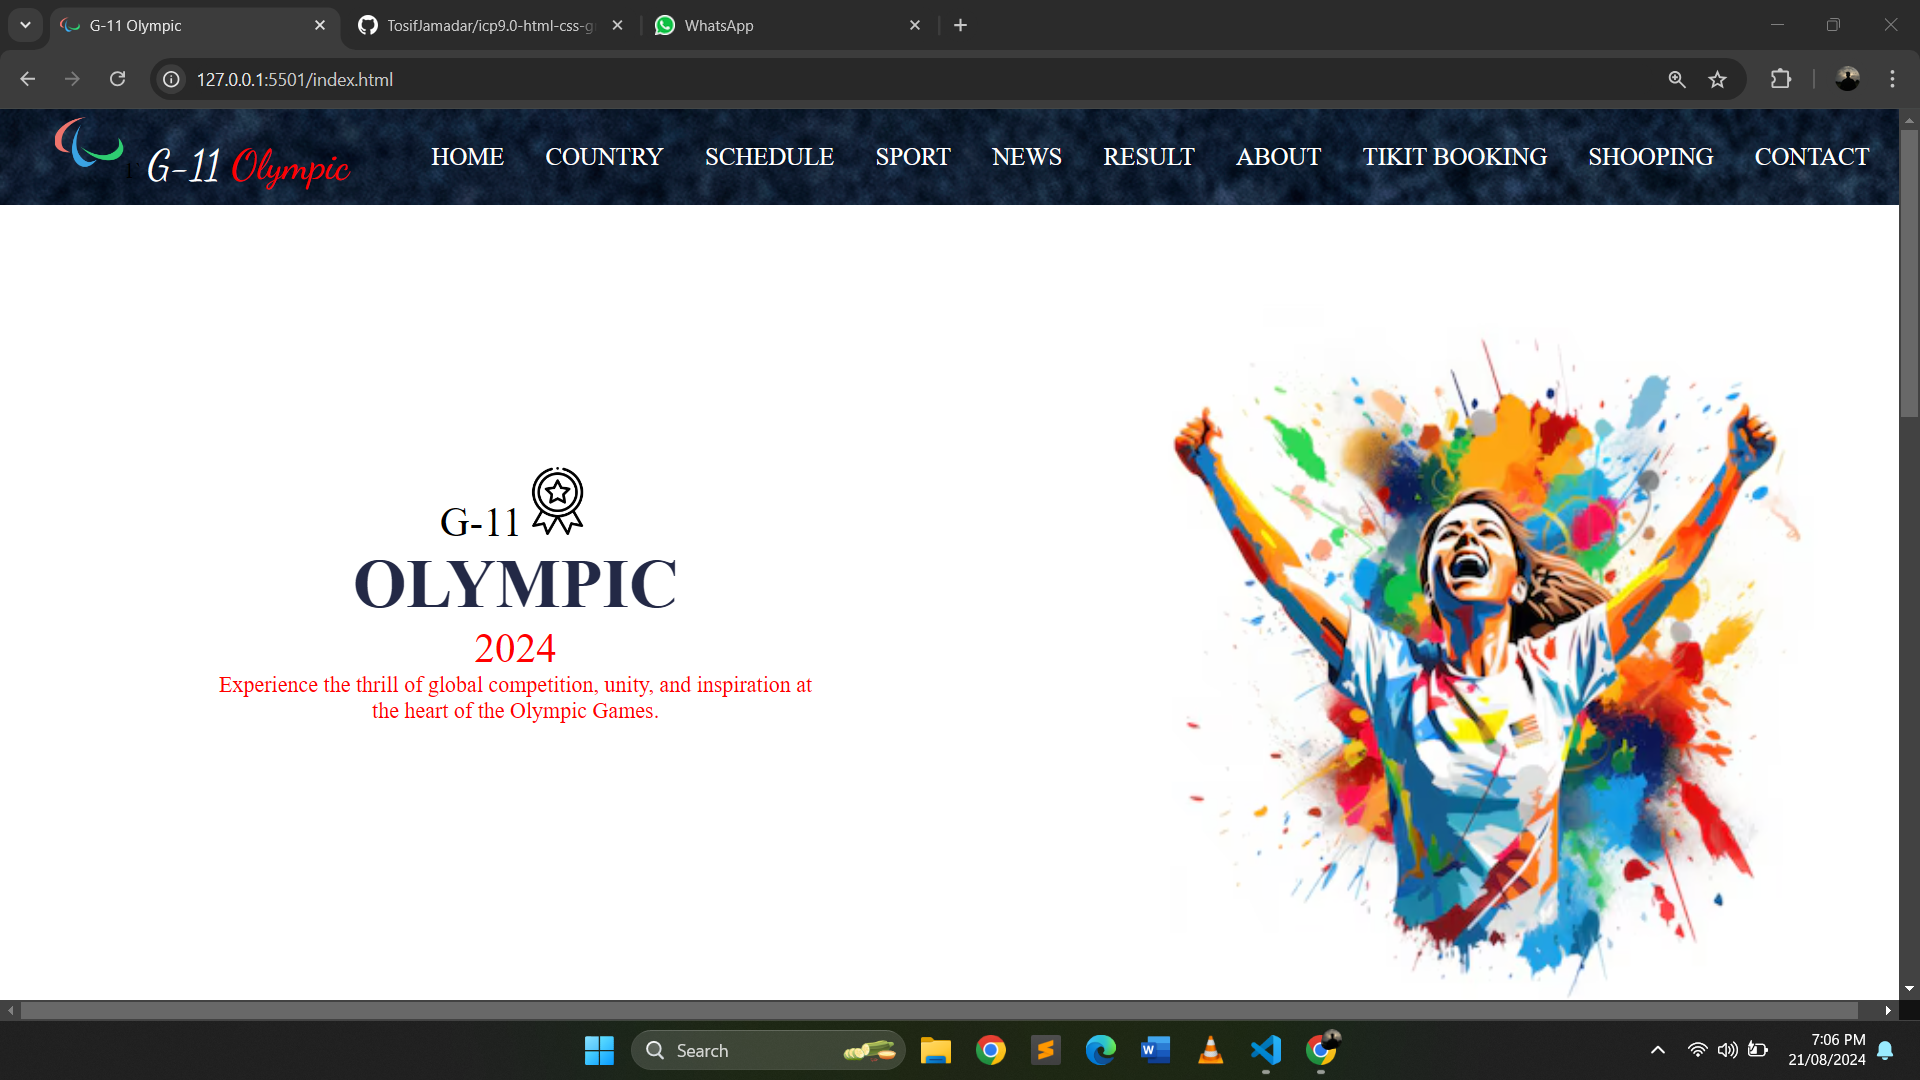
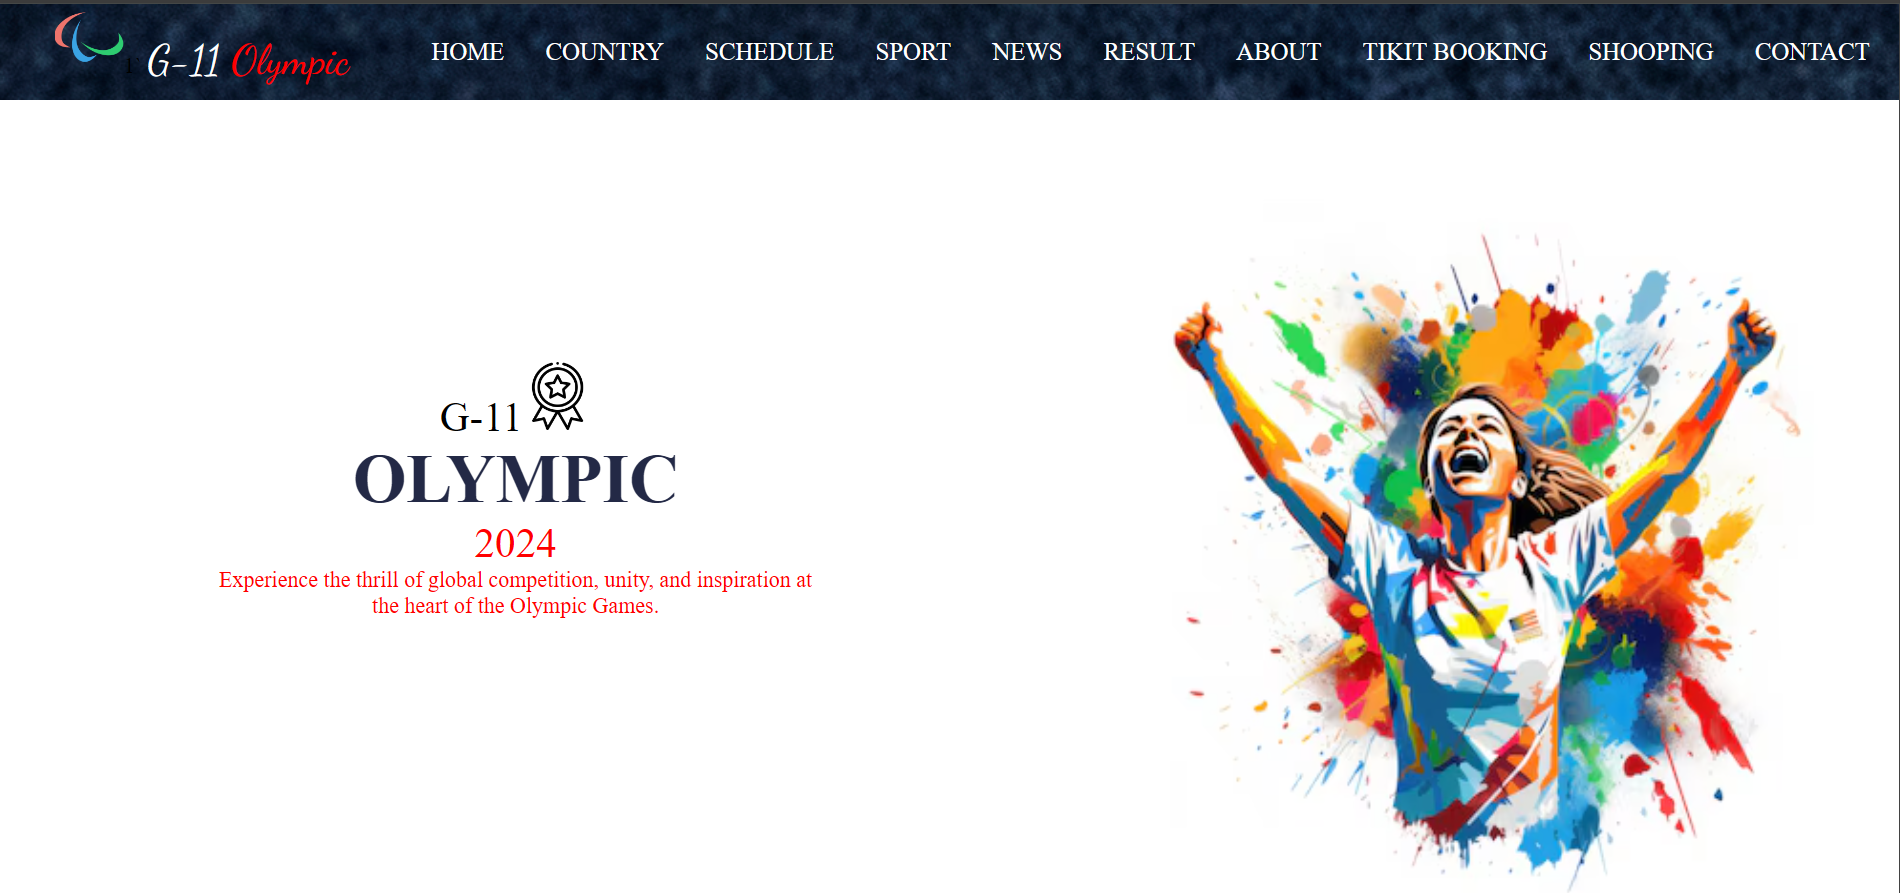
ScreenShot Added

diff --git a/README.MD b/README.MD
@@ -13,3 +13,6 @@ Contributions are welcome! If you would like to contribute to the project, pleas
 2. Create a new branch for your feature or bug fix.
 3. Commit your changes and push them to your fork.
 4. Open a pull request to the main repository.
+
+## 👉ScreenShot
+![ScreenShot](./screenshot/Home.png)
